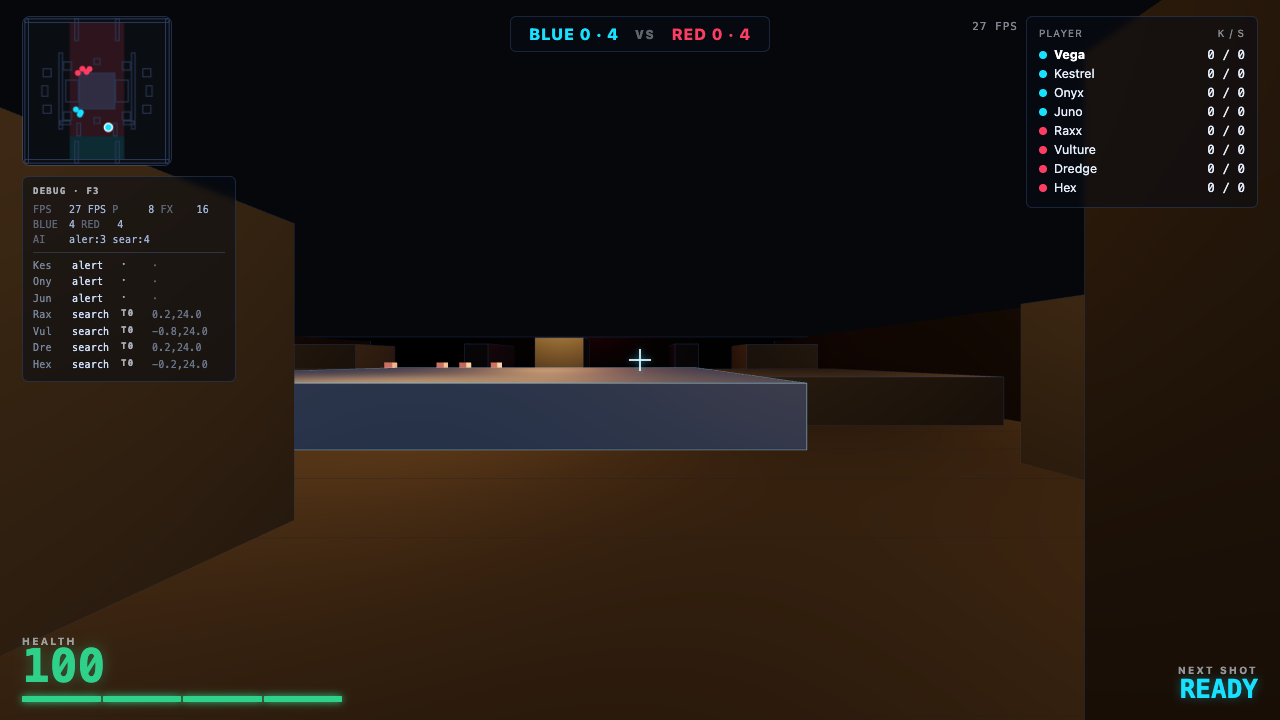
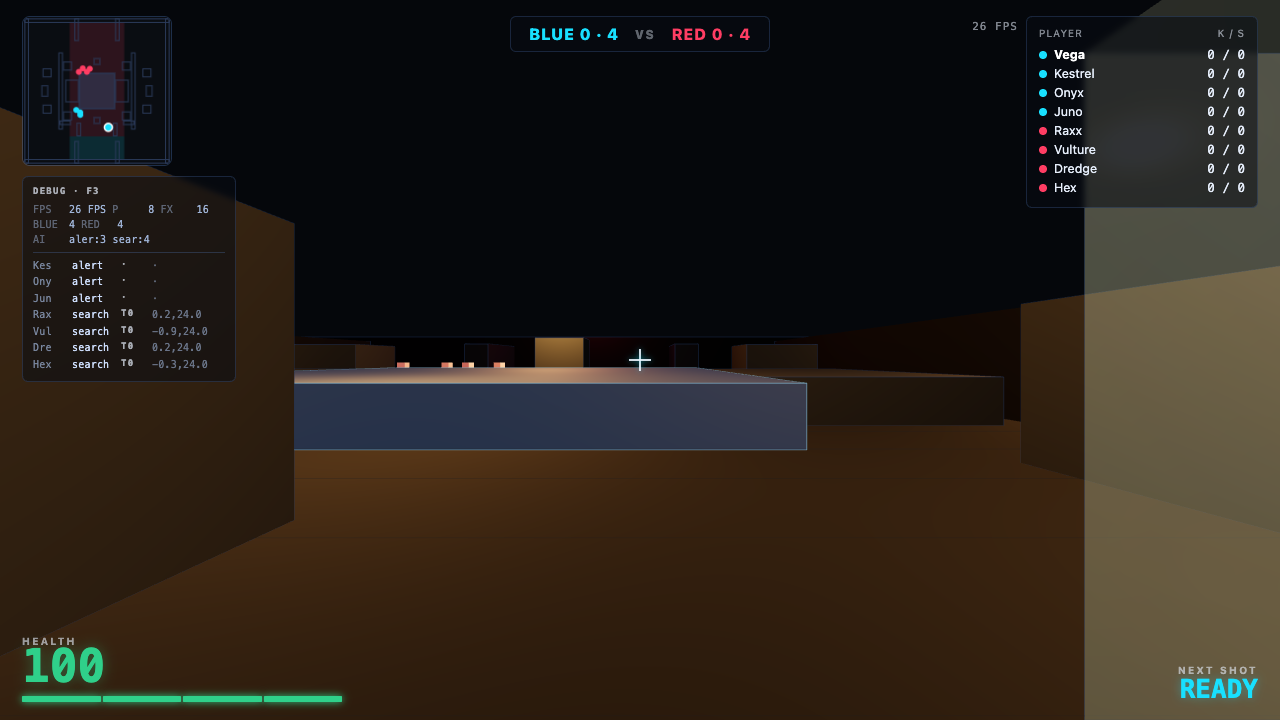
Add wall material model (solid/hedge/glass) and glass see-through rendering (MAP-01)

Changed region(s): [[0.8438, 0.0, 1.0, 1.0], [0.3438, 0.4889, 0.375, 0.5194], [0.2812, 0.4889, 0.3125, 0.5194]]

diff --git a/tests/e2e/neon-bastion.spec.ts b/tests/e2e/neon-bastion.spec.ts
@@ -21,7 +21,9 @@
 //   6. player-taken damage -> red vignette + damage-direction arc + camera
 //      kick (the 'hit' event is consumed), firing recoil accumulates
 //   7. no-WebGL fallback (?nogl=1) -> legible 2D status, no white screen/error
-// Seven screenshots of the real rendered game are saved to screenshots/.
+//   8. MAP-01 glass wall: a red unit parked behind the glass maze wall is
+//      visible through it (red-team pixels sampled from the canvas centre)
+// Eight screenshots of the real rendered game are saved to screenshots/.
 // ============================================================================
 
 import { test, expect } from '@playwright/test';
@@ -603,4 +605,85 @@ test('7: no-WebGL fallback shows a legible 2D status, never a white screen', asy
   await page.screenshot({ path: 'screenshots/07-fallback.png' });
   const real = errors.filter((e) => !GL_NOISE.test(e));
   expect(real, 'no real JS errors in the fallback: ' + real.join(' | ')).toHaveLength(0);
+});
+
+// ---------------------------------------------------------------------------
+interface RedSample {
+  count: number;
+  sample: [number, number, number];
+}
+/** Count red-team-coloured pixels (0xff3d63-ish: strong R, R >> G, R > B)
+ *  inside a central band of the WebGL canvas. Central band only, so the hit is
+ *  attributed to the unit on the sight axis, not to off-axis scenery. Samples
+ *  several frames (headless rAF is throttled) and keeps the best. */
+async function redPixelsInCentre(page: import('@playwright/test').Page): Promise<RedSample> {
+  let best: RedSample = { count: 0, sample: [0, 0, 0] };
+  for (let i = 0; i < 8; i++) {
+    const r = await page.evaluate((): RedSample => {
+      const gl = document.getElementById('webgl-canvas') as HTMLCanvasElement;
+      const c = document.createElement('canvas');
+      c.width = gl.width;
+      c.height = gl.height;
+      const ctx = c.getContext('2d')!;
+      ctx.drawImage(gl, 0, 0);
+      const x0 = Math.floor(c.width * 0.38);
+      const x1 = Math.ceil(c.width * 0.62);
+      const y0 = Math.floor(c.height * 0.38);
+      const y1 = Math.ceil(c.height * 0.62);
+      const d = ctx.getImageData(x0, y0, x1 - x0, y1 - y0).data;
+      let count = 0;
+      let sample: [number, number, number] = [0, 0, 0];
+      let bestLuma = -1;
+      for (let i = 0; i < d.length; i += 4) {
+        const pr = d[i], pg = d[i + 1], pb = d[i + 2];
+        // red team 0xff3d63 family: bright red dominant, well above green,
+        // blue present but below red (the pale-cyan glass tint does not match).
+        if (pr > 100 && pg < pr * 0.6 && pb < pr * 0.95) {
+          count++;
+          const luma = 0.2126 * pr + 0.7152 * pg + 0.0722 * pb;
+          if (luma > bestLuma) {
+            bestLuma = luma;
+            sample = [pr, pg, pb];
+          }
+        }
+      }
+      return { count, sample };
+    });
+    if (r.count > best.count) best = r;
+    if (best.count > 40) break;
+    await page.waitForTimeout(150);
+  }
+  return best;
+}
+
+test('8: glass wall is see-through — red unit behind it is visible in canvas pixels', async ({ page }) => {
+  const errors = trackErrors(page);
+  await ready(page);
+
+  // Static pre-start scene: the fixed-tick loop only runs after start(), so
+  // this placement cannot drift while frames present.
+  //
+  // maze-se-a (solid 27) is the GLASS maze wall: spans x 7..9, z 14..20, 0..3 m
+  // high. Put the player 1.5 m south of it (spawn yaw π = facing north, i.e.
+  // straight at the wall) and a red unit 1 m north of it. The view from the
+  // player's eye (y 1.62) to the unit passes through the glass volume, so the
+  // unit can only be seen THROUGH the wall.
+  await page.evaluate(() => {
+    const t = (window as unknown as { __teamArenaTest: Hooks }).__teamArenaTest;
+    t.teleport(0, 8, 21.5); // player, facing north, straight at the glass wall
+    t.teleport(4, 8, 13); // red unit Raxx, just behind the glass wall
+    [5, 6, 7].forEach((id) => t.teleport(id, -26, -20)); // park other reds far west, off-axis
+  });
+
+  await page.waitForTimeout(300); // let a few rendered frames present
+  const red = await redPixelsInCentre(page);
+  console.log('GLASS SEE-THROUGH RED PIXELS', JSON.stringify(red));
+  expect(
+    red.count,
+    `a red unit behind the glass wall must be visible through it (sample ${red.sample.join(',')})`
+  ).toBeGreaterThan(40);
+
+  await page.screenshot({ path: 'screenshots/08-glass-see-through.png' });
+  const real = errors.filter((e) => !GL_NOISE.test(e));
+  expect(real, 'no real JS errors: ' + real.join(' | ')).toHaveLength(0);
 });

diff --git a/src/render/renderer.ts b/src/render/renderer.ts
@@ -211,7 +211,36 @@ export class Renderer {
     this.scene.add(redLight);
   }
 
-  private solidMaterial(s: Solid): THREE.MeshStandardMaterial {
+  /** MAP-01: material is orthogonal to `kind`. `solid` (the default) keeps
+   *  the exact legacy per-kind appearance; `hedge` and `glass` override it. */
+  private materialFor(s: Solid): THREE.MeshStandardMaterial {
+    const mat = s.material ?? 'solid';
+    if (mat === 'hedge') {
+      // Opaque foliage: saturated plant green, matte (high roughness, zero
+      // metalness). A deterministic per-solid perturbation (seeded from the
+      // solid id) shifts hue/saturation/lightness slightly so no two hedge
+      // walls read as exactly the same green.
+      const c = new THREE.Color(0x3f7d3a);
+      const hsl = { h: 0, s: 0, l: 0 };
+      c.getHSL(hsl);
+      const t = (s.id * 0.61803398875) % 1; // golden-ratio hash: stable per id
+      c.setHSL(
+        (hsl.h + (t - 0.5) * 0.045 + 1) % 1,
+        Math.min(1, hsl.s + (t - 0.5) * 0.12),
+        Math.min(1, Math.max(0, hsl.l + (t - 0.5) * 0.06)),
+      );
+      return new THREE.MeshStandardMaterial({ color: c, roughness: 0.95, metalness: 0 });
+    }
+    if (mat === 'glass') {
+      // Faintly cyan-tinted, low roughness, ~22% opaque: a unit on the far
+      // side must stay clearly readable through it (verified by the E2E
+      // canvas-pixel assertion). No depth write so transparents behind it
+      // (team rings, grid) keep blending correctly.
+      return new THREE.MeshStandardMaterial({
+        color: 0xa8dce8, roughness: 0.08, metalness: 0.1,
+        transparent: true, opacity: 0.22, depthWrite: false, side: THREE.DoubleSide,
+      });
+    }
     let color = ENV.wall;
     let emissive = 0x000000;
     let emissiveIntensity = 0;
@@ -249,7 +278,7 @@ export class Renderer {
     for (const s of map.solids) {
       const h = Math.max(0.05, s.top - s.bottom);
       const geo = new THREE.BoxGeometry(s.sx, h, s.sz);
-      const mesh = new THREE.Mesh(geo, this.solidMaterial(s));
+      const mesh = new THREE.Mesh(geo, this.materialFor(s));
       mesh.position.set(s.x, s.bottom + h / 2, s.z);
       this.scene.add(mesh);
 

diff --git a/src/game/types.ts b/src/game/types.ts
@@ -16,6 +16,10 @@ export function teamColor(t: Team): string {
   return t === 'blue' ? '#2f8fff' : '#ff3b3b';
 }
 
+/** Visual/collision material of a solid — orthogonal to its `kind` (MAP-01).
+ *  The same wall can be plain solid, opaque hedge foliage, or transparent glass. */
+export type SolidMaterial = 'solid' | 'hedge' | 'glass';
+
 /** A single axis-aligned solid in the map (wall / cover / platform / ramp / boundary). */
 export interface Solid {
   id: number;
@@ -29,6 +33,8 @@ export interface Solid {
   bottom: number;
   top: number;
   kind: 'boundary' | 'wall' | 'cover' | 'platform' | 'ramp' | 'spawn';
+  /** Material override (MAP-01). Unset = 'solid' (legacy appearance). */
+  material?: SolidMaterial;
   /** Ramp axis + which X/Z end is the high end (only for kind === 'ramp'). */
   rampAxis?: 'x' | 'z';
   rampHighPositive?: boolean;

diff --git a/src/game/map/mapData.ts b/src/game/map/mapData.ts
@@ -83,9 +83,11 @@ const solids: Solid[] = [
   s(24, 0, -13, 3, 3, 0, 3, 'cover', 'cover-n-col'),
 
   // ---- Flanking mazes (south-west & south-east baffles with clear lanes) ----
-  s(25, -8, 17, 2, 6, 0, 3, 'wall', 'maze-sw-a'),
+  // MAP-01: manual material overrides for verification only — one hedge and
+  // one glass wall among the four maze walls. (Randomized in task 4.)
+  s(25, -8, 17, 2, 6, 0, 3, 'wall', 'maze-sw-a', { material: 'hedge' }),
   s(26, -14, 14, 5, 2, 0, 3, 'wall', 'maze-sw-b'),
-  s(27, 8, 17, 2, 6, 0, 3, 'wall', 'maze-se-a'),
+  s(27, 8, 17, 2, 6, 0, 3, 'wall', 'maze-se-a', { material: 'glass' }),
   s(28, 14, 14, 5, 2, 0, 3, 'wall', 'maze-se-b'),
 ];
 
